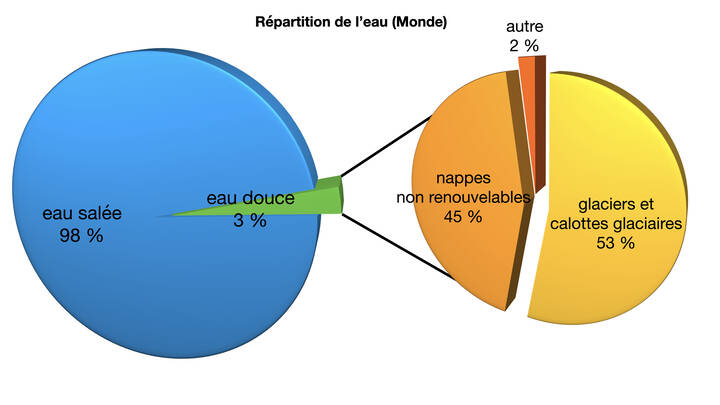
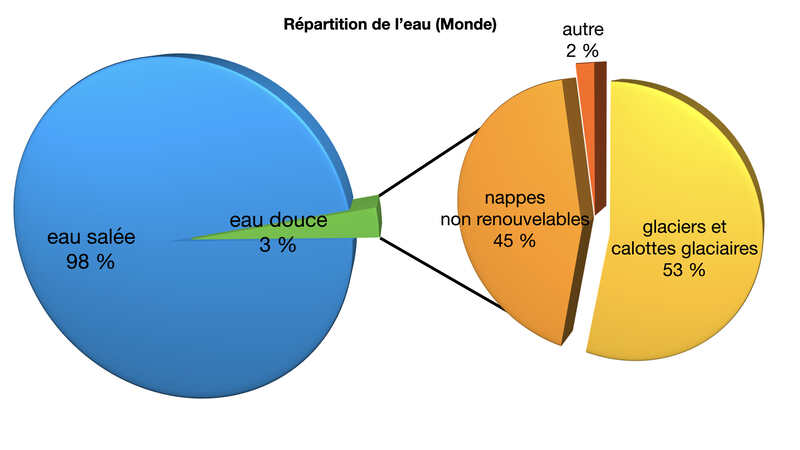
better reponsive images

diff --git a/_includes/responsive-image.html b/_includes/responsive-image.html
@@ -7,5 +7,8 @@
     {% endif %}
     {% assign slice_length = path.size | minus: 4 %}
     {% assign untyped_path = path | slice: 0, slice_length %}
-    <img src="/{{ untyped_path }}{{default_type}}" alt="{{ alt }}" title="{{ alt }}" loading="lazy">
+    {% if title == null %}
+        {% assign title=alt %}
+    {% endif %}
+    <img src="/{{ untyped_path }}{{default_type}}" alt="{{ alt }}" title="{{ title }}" loading="lazy">
 </picture>

diff --git a/blog/_posts/articles/2024-01-22-utilisation-eau.md b/blog/_posts/articles/2024-01-22-utilisation-eau.md
@@ -17,9 +17,10 @@ Cet été a peut-être permis aux Français.e.s de se rendre de compte que l'eau
 
 Sur Terre, nous avons majoritairement (97%) de l'eau salée (dans nos mers et océans). Cependant nous avons plus souvent besoin d'eau douce. La grande majorité des réserves d'eau douce est inexploitable (glaciers, nappes non renvoulables...). Nous ne puisons notre eau que dans les cours d'eau (lacs et rivières) ou dans les nappes renouvelables qui représentent moins de 2% des reserves d'eau douce.
 
-{% include picture.html 
-    url="/assets/img/posts/2024/Q1/repartition-eau"
-    alt="On accède à une proportion minime des eaux existant sur Terre"
+{% responsive_image 
+  path: assets/img/posts/2024/Q1/repartition-eau.webp 
+  title: "On accède à une proportion minime des eaux existant sur Terre." 
+  alt: "Graphiques présentant la répartition des réserves d'eau dans le monde."
 %}
 *Source : Eau'dyssée.*
 
@@ -51,11 +52,6 @@ Le ruissellement et accentué par :
 - la déforestation
 - l'assèchement des sols (qui est augmenté par le réchauffement climatique)
 
-{% include picture.html 
-    url="/assets/img/posts/2024/Q1/dry-soil"
-    alt="Un sol imperméable nuit au cycle de l'eau."
-%}
-
 ## Quelles sont les limites de consommation soutenable ?
 
 Les prélèvements anthropiques de l'eau sont divisés en 3 catégories : 
@@ -80,10 +76,9 @@ Au total, le numérique représente près de 5% des besoins mondiaux de l'indust
 
 Malheureusement cette utilisation de l'eau a généralement lieu dans des régions qui sont déjà en stress hydrique et aggrave donc une situation qui était déjà délicate. Pour prendre cet effet en compte dans les analyses du cycle de vie, on parle généralement en m³ world eq. Cette unité prend en compte les réserves d'eau et la demande d'eau sur le lieu de prélèvement et traduit cela en un prélèvement normalisé sur Terre. C'est {% include link.html text="la méthode AWARE" link="https://wulca-waterlca.org/aware/what-is-aware/" %} :&nbsp;**A**vailable **WA**ter **RE**maining.
 
-{% include picture.html 
-    url="/assets/img/posts/2024/Q1/m-3-world-eq-m-3"
-    alt="Le prélèvement d'un même volume ne compte pas autant en fonction des réserves d'eau."
-    type='png'
+{% responsive_image 
+  path: assets/img/posts/2024/Q1/m-3-world-eq-m-3.webp 
+  alt: "Le prélèvement d'un même volume ne compte pas autant en fonction des réserves d'eau." 
 %}
 *La différence dans le m³ world eq en fonction du lieu de prélèvement ({% include link.html text="source" link="https://www.researchgate.net/figure/AWARE-characterization-factors-for-water-scarcity-footprint-in-m-3-world-eq-m-3-consumed_fig1_317777199" %})*
 

diff --git a/blog/_posts/articles/2024-01-30-ecotoxicite-eau.md b/blog/_posts/articles/2024-01-30-ecotoxicite-eau.md
@@ -62,6 +62,7 @@ De même, de nombreux déchets (notamment plastiques ou aussi des mégots de cig
 {% responsive_image 
   path: assets/img/posts/2024/Q1/lac-inde.webp 
   alt: "Photo d'un lac en Inde avec beaucoup de déchets au premier plan." 
+  title: "En plus de gâcher un paysage magnifique, les déchets nuisent largement à l'éco-systéme à à l'homme."
 %}
 
 *Photo de {% include link.html text="Yogendra Singh" link="https://www.pexels.com/fr-fr/photo/dechets-sur-plan-d-eau-2480807/" %}.*
